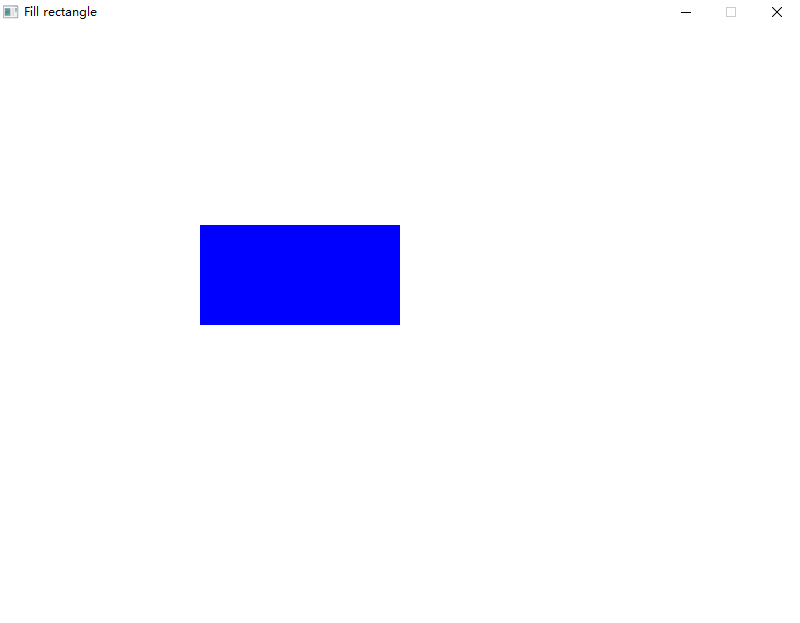
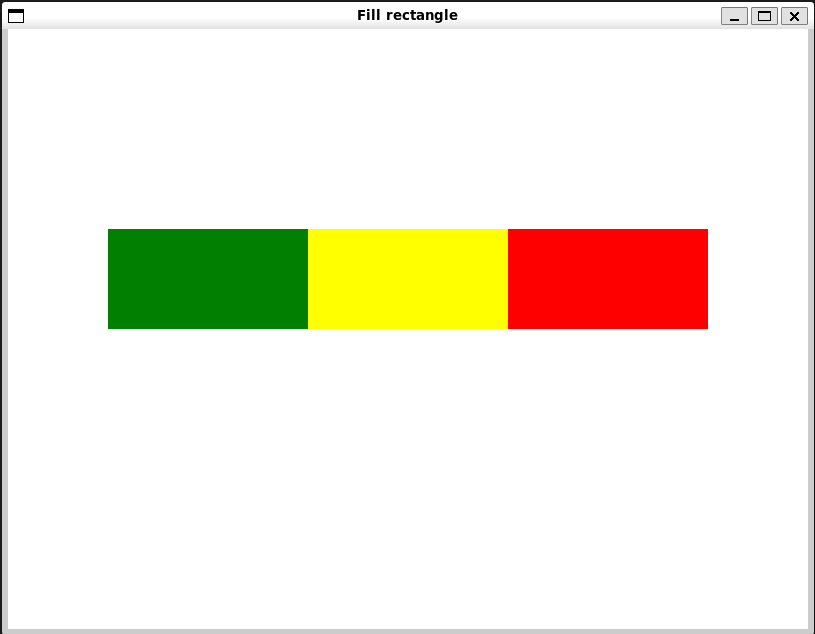
new usage example fill rectangle

Changed region(s): [[0.125, 0.3355, 0.875, 0.549], [0.0, 0.0, 1.0, 1.0]]

diff --git a/public/usage-examples/graphics/fill_rectangle/fill_rectangle-1-simple-oop.cs.cs b/public/usage-examples/graphics/fill_rectangle/fill_rectangle-1-simple-oop.cs.cs
@@ -1,0 +1,24 @@
+using SplashKitSDK;
+
+namespace FillRectangle
+{
+    public class Program
+    {
+        public static void Main()
+        {   
+            //Create a window with title Fill rectangle, width 800, height 600.
+            SplashKit.OpenWindow("Fill Rectangle", 800, 600);
+            SplashKit.ClearScreen();
+
+            //draw three rectangles with color green, yellow, and red with different position as (100,200), (300,200), (500,200) with same size.
+            SplashKit.FillRectangle(SplashKit.ColorGreen(), 100, 200, 200, 100);
+            SplashKit.FillRectangle(SplashKit.ColorYellow(), 300, 200, 200, 100);
+            SplashKit.FillRectangle(SplashKit.ColorRed(), 500, 200, 200, 100);
+
+            SplashKit.RefreshScreen();
+            SplashKit.Delay(4000);
+            SplashKit.CloseAllWindows();
+        }    
+    }
+}
+

diff --git a/public/usage-examples/graphics/fill_rectangle/fill_rectangle-1-simple.cpp b/public/usage-examples/graphics/fill_rectangle/fill_rectangle-1-simple.cpp
@@ -2,10 +2,14 @@
 
 int main()
 {
-    open_window("Fill rectangle", 800, 600);
-
+    //Create a window with title Fill rectangle, width 800, height 600.
+    open_window("Fill Rectangle", 800, 600);
     clear_screen();
-    fill_rectangle(COLOR_BLUE, 200, 200, 200, 100);
+
+    //draw three rectangles with color green, yellow, and red with different position as (100,200), (300,200), (500,200) with same size.
+    fill_rectangle(COLOR_GREEN, 100, 200, 200, 100);
+    fill_rectangle(COLOR_YELLOW, 300, 200, 200, 100);
+    fill_rectangle(COLOR_RED, 500, 200, 200, 100);
     refresh_screen();
     
     delay(4000);

diff --git a/public/usage-examples/graphics/fill_rectangle/fill_rectangle-1-simple.py b/public/usage-examples/graphics/fill_rectangle/fill_rectangle-1-simple.py
@@ -1,0 +1,18 @@
+from splashkit import *
+
+#Create a window with title Fill rectangle, width 800, height 600.
+open_window("Fill Rectangle", 800, 600)
+
+clear_screen(color_white())
+refresh_screen()
+
+#draw three rectangles with color green, yellow, and red with different position as (100,200), (300,200), (500,200) with same size.
+fill_rectangle(color_green(), 100, 200, 200, 100)
+fill_rectangle(color_yellow(), 300, 200, 200, 100)
+fill_rectangle(color_red(), 500, 200, 200, 100)
+
+
+refresh_screen()
+delay(4000)
+close_all_windows()
+

diff --git a/public/usage-examples/graphics/fill_rectangle/fill_rectangle-1-simple-top-level.cs b/public/usage-examples/graphics/fill_rectangle/fill_rectangle-1-simple-top-level.cs
@@ -1,0 +1,16 @@
+using static SplashKitSDK.SplashKit;
+
+//Create a window with title Fill rectangle, width 800, height 600.
+OpenWindow("Fill Rectangle", 800, 600);
+
+ClearScreen();
+//draw three rectangles with color green, yellow, and red with different position as (100,200), (300,200), (500,200) with same size.
+FillRectangle(ColorGreen(), 100, 200, 200, 100);
+FillRectangle(ColorYellow(), 300, 200, 200, 100);
+FillRectangle(ColorRed(), 500, 200, 200, 100);
+RefreshScreen();
+
+Delay(4000);
+
+CloseAllWindows();
+
